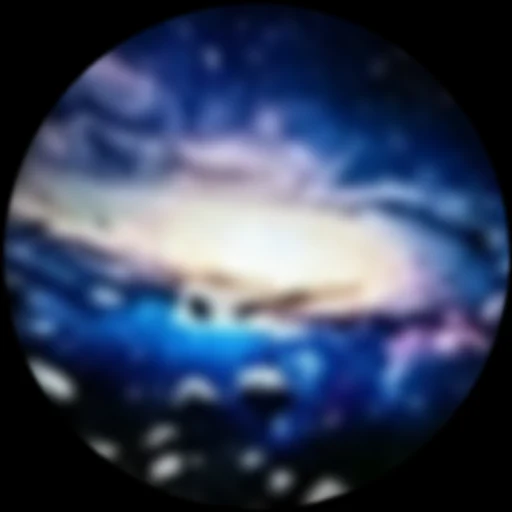
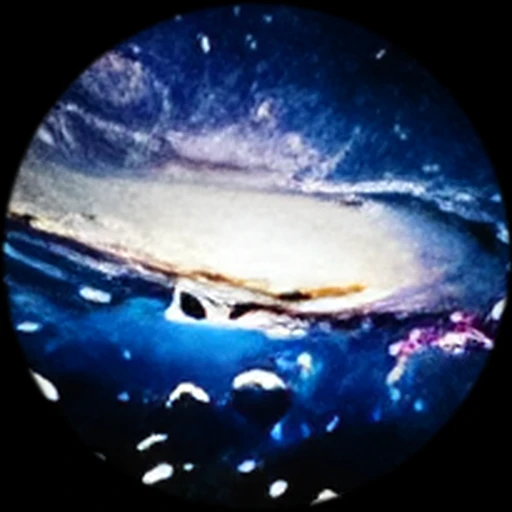
Galaxy USB diskleri Real-ESRGAN ile 4x büyütüldü
- Kaynak görseller küçüktü (renkli diskler ~50 px); yumuşatmak yetmedi
- araclar/gorsel/sr.py: yerel, ücretsiz Real-ESRGAN x4plus büyütme
- 12 disk yeniden kırpıldı; kural TASARIM-BILGISI, SKILL ve DEVAM'a yazıldı

Claude-Session: https://claude.ai/code/session_01UJKqxwDsqVK8ZKXFU1WVWQ

diff --git a/ayluna-imza/canvas/GalaxyUSB-Renk-gumus.dc.html b/ayluna-imza/canvas/GalaxyUSB-Renk-gumus.dc.html
@@ -369,7 +369,7 @@ body{margin:0;background:#F2F4F8}
 
     <div class="ozler">
       <div class="oz"><span class="gz" aria-hidden="true"><span class="port"></span><svg class="fis-a" viewBox="0 0 60 30" aria-hidden="true"><g class="fis"><rect class="uc" x="2" y="10" width="10" height="10" rx="1.5"></rect><rect class="gv" x="12" y="7" width="16" height="16" rx="4"></rect><path class="kb" d="M28 15h32"></path></g></svg></span><b>USB tak, çalıştır</b><span class="t">Laptop, powerbank ya da şarj başlığı.</span></div>
-      <div class="oz"><span class="gz"><span class="dn" aria-hidden="true"><img src="/_blob/298ae74db19f9db800b9e9036f8da560" alt=""><img src="/_blob/e3900cbd48390901b17932d8912b6b44" alt=""><img src="/_blob/9665b9b2418d5356d09a0e49b65225a7" alt=""></span></span><b>12 film diski</b><span class="t">Diski değiştir, tavan değişsin.</span></div>
+      <div class="oz"><span class="gz"><span class="dn" aria-hidden="true"><img src="/_blob/b9f5d788517b91ee796e4170791b31ee" alt=""><img src="/_blob/dac06d8e40f97dcc07c044913dd850a1" alt=""><img src="/_blob/e0c62326edb330a8e656d1783d3a17cb" alt=""></span></span><b>12 film diski</b><span class="t">Diski değiştir, tavan değişsin.</span></div>
       <div class="oz"><span class="gz" aria-hidden="true"><span class="karo salla"><img src="/_blob/5782766948fef68b7273c061529d6324" alt=""></span></span><b>Esnek boyun</b><span class="t">Tavana, duvara, köşeye çevir.</span></div>
       <div class="oz"><span class="gz" aria-hidden="true"><span class="karo"><span class="hale"></span><img src="/_blob/5782766948fef68b7273c061529d6324" alt=""></span></span><b>Gece lambası da</b><span class="t">Gövdesi yumuşak ışıkla yanar.</span></div>
       <div class="oz genis"><span class="gz" aria-hidden="true"><span class="cetvel"><i></i></span></span><span><b>Az yer kaplar</b><span class="t">Başlık 4 cm, toplam boy 23,5 cm.</span></span></div>
@@ -381,7 +381,7 @@ body{margin:0;background:#F2F4F8}
     </sc-for></div>
     <!-- Dönen satır (kullanıcı, 18 Eki: LunaDream'deki baskı USB'de de): önce disk, sonra aynı gün kargo + 16.00 sayacı (4 sn / 6 sn).
          16.00'dan sonra ve hafta sonu sayaç yok: "Bugün verilen siparişler yarın / Pazartesi kargoda". -->
-    <p class="donen"><span class="dn-sr">Her kutuda 12 film diski. {{kgMetin}}.</span><span class="{{dnA}}" aria-hidden="true"><span class="dn" aria-hidden="true"><img src="/_blob/298ae74db19f9db800b9e9036f8da560" alt=""><img src="/_blob/e3900cbd48390901b17932d8912b6b44" alt=""><img src="/_blob/9665b9b2418d5356d09a0e49b65225a7" alt=""></span><span>Her kutuda 12 film diski</span></span><span class="{{dnB}}" aria-hidden="true"><span class="dn-ik"><svg viewBox="0 0 24 24" aria-hidden="true"><circle cx="12" cy="12" r="8.5"></circle><path d="M12 7.5V12l3 2"></path></svg></span><span class="dn-m">{{kgMetin}}</span><sc-if value="{{kgBugun}}" hint-placeholder-val="{{true}}"><b class="dn-sy">{{kgSayac}}</b></sc-if></span></p>
+    <p class="donen"><span class="dn-sr">Her kutuda 12 film diski. {{kgMetin}}.</span><span class="{{dnA}}" aria-hidden="true"><span class="dn" aria-hidden="true"><img src="/_blob/b9f5d788517b91ee796e4170791b31ee" alt=""><img src="/_blob/dac06d8e40f97dcc07c044913dd850a1" alt=""><img src="/_blob/e0c62326edb330a8e656d1783d3a17cb" alt=""></span><span>Her kutuda 12 film diski</span></span><span class="{{dnB}}" aria-hidden="true"><span class="dn-ik"><svg viewBox="0 0 24 24" aria-hidden="true"><circle cx="12" cy="12" r="8.5"></circle><path d="M12 7.5V12l3 2"></path></svg></span><span class="dn-m">{{kgMetin}}</span><sc-if value="{{kgBugun}}" hint-placeholder-val="{{true}}"><b class="dn-sy">{{kgSayac}}</b></sc-if></span></p>
     <!-- Stok kurdelesi: butonun üst kenarında. Stok ELLE girilir (kullanıcı, 18 Eki: "stoklar elle girilecek"): Shopify'da bölüm ayarı
          sayı + aç/kapa; Shopify stoğuna bağlı değil, boşsa kurdele yok. "Dün" fiyatın altında. -->
     <div class="al-on"><span class="{{stokCls}}"><svg viewBox="0 0 24 24" aria-hidden="true"><circle cx="12" cy="12" r="9"></circle><path transform="matrix(-1 0 0 1 24 0)" d="M12 3A9 9 0 0 1 12 21A6.30 9 0 0 0 12 3Z"></path></svg>Son 23 adet</span><button class="btn1" type="button"><span class="b-ic"><span>{{onLabel}}</span><small>Kartla %5 indirim dahil</small></span><svg viewBox="0 0 24 24" aria-hidden="true"><path d="M5 12h13M13 6l6 6-6 6"></path></svg></button></div>
@@ -441,7 +441,7 @@ class Component extends DCLogic {
     // Kaydırma: hangi fotoğraf ortadaysa o; elle kaydırılınca kendiliğinden geçiş durur
     function gKay(e) { var el = e && (e.currentTarget || e.target); if (!el || !el.clientWidth) return; var i = Math.round(el.scrollLeft / el.clientWidth), o = {};
       if (i !== self.state.g) o.g = i; if (self.state.gOto && Date.now() - (self.otoKay || 0) > 900) o.gOto = false; if (o.g !== undefined || o.gOto === false) self.setState(o); }
-    var DISK = [['Kızıl sarmal', '298ae74db19f9db800b9e9036f8da560'], ['Mavi nebula', 'b9827fcce5c63d62332bae79435b337a'], ['Ay yüzeyi', '877983233d8c1e6644d73c1923e72595'], ['Yıldız yağmuru', 'af1815158d14c5b764fad7776e10284c'], ['Mavi galaksi', '9665b9b2418d5356d09a0e49b65225a7'], ['Yıldız kuşağı', '093b2415a406f8c3029e9fc3ab073eaf'], ['Dolunay', 'e3900cbd48390901b17932d8912b6b44'], ['Satürn', '62e0ed0370f3e64bee9916a776621abf'], ['Uzay balinası', 'ac1f2ab95a1b0b8a819f04095305f179'], ['Samanyolu', '14c1fb57790b4d352192307e2266071e'], ['Bulut sarmalı', '3b7f66c3091c4a32ba836ca875d7f4f3'], ['Uzak galaksi', 'f5f8b6e9da726943b0ca3bea161462e8']];
+    var DISK = [['Kızıl sarmal', 'b9f5d788517b91ee796e4170791b31ee'], ['Mavi nebula', '4ceeb81725946c822da32225b36f8707'], ['Ay yüzeyi', 'a1c504f99589f63119d510c6f2c60919'], ['Yıldız yağmuru', 'd83c22969ff22eeda6a4ca43aa9e9792'], ['Mavi galaksi', 'e0c62326edb330a8e656d1783d3a17cb'], ['Yıldız kuşağı', '913d542458ee66ea5831071ef906a926'], ['Dolunay', 'dac06d8e40f97dcc07c044913dd850a1'], ['Satürn', 'f62fdb9c7a12f760a4bcb9d306fbafbe'], ['Uzay balinası', 'b94b60d6baf860e25b45a407b46a674a'], ['Samanyolu', 'c814e4a17e35eae6284f97d3645659a6'], ['Bulut sarmalı', '940ee9133dda38926366d750a651ee3a'], ['Uzak galaksi', '97e1e85efbecaad855efdf10a1f78716']];
     var disk = DISK.map(function (d, i) { var on = i === S.disk; return { n: d[0], src: B + d[1], on: on ? 'true' : 'false', cls: on ? 'on' : '', bcls: on ? 'on' : '', pick: function () { self.setState({ disk: i, dOto: false }); } }; });
     var DS = {}; DISK.forEach(function (d) { DS[d[0]] = B + d[1]; });
     var KIM = [['Çocuk odası', 'cocuk', 'Masaldan sonra galaksi.', 'Uyumadan önce tavana birlikte bakın.', 'Uzay balinası', '32% 40%'], ['Kendine zaman', 'saturn', 'Ekran yok, sadece gökyüzü.', 'Gün sonunda telefonu bırak, tavana bak.', 'Satürn', '52% 40%'], ['Dolunay gecesi', 'ay', 'Ay odanda doğsun.', 'Işığı kapat, dolunay tavanda.', 'Dolunay', '50% 40%']];

diff --git a/ayluna-imza/canvas/GalaxyUSB-Renk-kuzey.dc.html b/ayluna-imza/canvas/GalaxyUSB-Renk-kuzey.dc.html
@@ -369,7 +369,7 @@ body{margin:0;background:#F2F4F8}
 
     <div class="ozler">
       <div class="oz"><span class="gz" aria-hidden="true"><span class="port"></span><svg class="fis-a" viewBox="0 0 60 30" aria-hidden="true"><g class="fis"><rect class="uc" x="2" y="10" width="10" height="10" rx="1.5"></rect><rect class="gv" x="12" y="7" width="16" height="16" rx="4"></rect><path class="kb" d="M28 15h32"></path></g></svg></span><b>USB tak, çalıştır</b><span class="t">Laptop, powerbank ya da şarj başlığı.</span></div>
-      <div class="oz"><span class="gz"><span class="dn" aria-hidden="true"><img src="/_blob/298ae74db19f9db800b9e9036f8da560" alt=""><img src="/_blob/e3900cbd48390901b17932d8912b6b44" alt=""><img src="/_blob/9665b9b2418d5356d09a0e49b65225a7" alt=""></span></span><b>12 film diski</b><span class="t">Diski değiştir, tavan değişsin.</span></div>
+      <div class="oz"><span class="gz"><span class="dn" aria-hidden="true"><img src="/_blob/b9f5d788517b91ee796e4170791b31ee" alt=""><img src="/_blob/dac06d8e40f97dcc07c044913dd850a1" alt=""><img src="/_blob/e0c62326edb330a8e656d1783d3a17cb" alt=""></span></span><b>12 film diski</b><span class="t">Diski değiştir, tavan değişsin.</span></div>
       <div class="oz"><span class="gz" aria-hidden="true"><span class="karo salla"><img src="/_blob/5782766948fef68b7273c061529d6324" alt=""></span></span><b>Esnek boyun</b><span class="t">Tavana, duvara, köşeye çevir.</span></div>
       <div class="oz"><span class="gz" aria-hidden="true"><span class="karo"><span class="hale"></span><img src="/_blob/5782766948fef68b7273c061529d6324" alt=""></span></span><b>Gece lambası da</b><span class="t">Gövdesi yumuşak ışıkla yanar.</span></div>
       <div class="oz genis"><span class="gz" aria-hidden="true"><span class="cetvel"><i></i></span></span><span><b>Az yer kaplar</b><span class="t">Başlık 4 cm, toplam boy 23,5 cm.</span></span></div>
@@ -381,7 +381,7 @@ body{margin:0;background:#F2F4F8}
     </sc-for></div>
     <!-- Dönen satır (kullanıcı, 18 Eki: LunaDream'deki baskı USB'de de): önce disk, sonra aynı gün kargo + 16.00 sayacı (4 sn / 6 sn).
          16.00'dan sonra ve hafta sonu sayaç yok: "Bugün verilen siparişler yarın / Pazartesi kargoda". -->
-    <p class="donen"><span class="dn-sr">Her kutuda 12 film diski. {{kgMetin}}.</span><span class="{{dnA}}" aria-hidden="true"><span class="dn" aria-hidden="true"><img src="/_blob/298ae74db19f9db800b9e9036f8da560" alt=""><img src="/_blob/e3900cbd48390901b17932d8912b6b44" alt=""><img src="/_blob/9665b9b2418d5356d09a0e49b65225a7" alt=""></span><span>Her kutuda 12 film diski</span></span><span class="{{dnB}}" aria-hidden="true"><span class="dn-ik"><svg viewBox="0 0 24 24" aria-hidden="true"><circle cx="12" cy="12" r="8.5"></circle><path d="M12 7.5V12l3 2"></path></svg></span><span class="dn-m">{{kgMetin}}</span><sc-if value="{{kgBugun}}" hint-placeholder-val="{{true}}"><b class="dn-sy">{{kgSayac}}</b></sc-if></span></p>
+    <p class="donen"><span class="dn-sr">Her kutuda 12 film diski. {{kgMetin}}.</span><span class="{{dnA}}" aria-hidden="true"><span class="dn" aria-hidden="true"><img src="/_blob/b9f5d788517b91ee796e4170791b31ee" alt=""><img src="/_blob/dac06d8e40f97dcc07c044913dd850a1" alt=""><img src="/_blob/e0c62326edb330a8e656d1783d3a17cb" alt=""></span><span>Her kutuda 12 film diski</span></span><span class="{{dnB}}" aria-hidden="true"><span class="dn-ik"><svg viewBox="0 0 24 24" aria-hidden="true"><circle cx="12" cy="12" r="8.5"></circle><path d="M12 7.5V12l3 2"></path></svg></span><span class="dn-m">{{kgMetin}}</span><sc-if value="{{kgBugun}}" hint-placeholder-val="{{true}}"><b class="dn-sy">{{kgSayac}}</b></sc-if></span></p>
     <!-- Stok kurdelesi: butonun üst kenarında. Stok ELLE girilir (kullanıcı, 18 Eki: "stoklar elle girilecek"): Shopify'da bölüm ayarı
          sayı + aç/kapa; Shopify stoğuna bağlı değil, boşsa kurdele yok. "Dün" fiyatın altında. -->
     <div class="al-on"><span class="{{stokCls}}"><svg viewBox="0 0 24 24" aria-hidden="true"><circle cx="12" cy="12" r="9"></circle><path transform="matrix(-1 0 0 1 24 0)" d="M12 3A9 9 0 0 1 12 21A6.30 9 0 0 0 12 3Z"></path></svg>Son 23 adet</span><button class="btn1" type="button"><span class="b-ic"><span>{{onLabel}}</span><small>Kartla %5 indirim dahil</small></span><svg viewBox="0 0 24 24" aria-hidden="true"><path d="M5 12h13M13 6l6 6-6 6"></path></svg></button></div>
@@ -441,7 +441,7 @@ class Component extends DCLogic {
     // Kaydırma: hangi fotoğraf ortadaysa o; elle kaydırılınca kendiliğinden geçiş durur
     function gKay(e) { var el = e && (e.currentTarget || e.target); if (!el || !el.clientWidth) return; var i = Math.round(el.scrollLeft / el.clientWidth), o = {};
       if (i !== self.state.g) o.g = i; if (self.state.gOto && Date.now() - (self.otoKay || 0) > 900) o.gOto = false; if (o.g !== undefined || o.gOto === false) self.setState(o); }
-    var DISK = [['Kızıl sarmal', '298ae74db19f9db800b9e9036f8da560'], ['Mavi nebula', 'b9827fcce5c63d62332bae79435b337a'], ['Ay yüzeyi', '877983233d8c1e6644d73c1923e72595'], ['Yıldız yağmuru', 'af1815158d14c5b764fad7776e10284c'], ['Mavi galaksi', '9665b9b2418d5356d09a0e49b65225a7'], ['Yıldız kuşağı', '093b2415a406f8c3029e9fc3ab073eaf'], ['Dolunay', 'e3900cbd48390901b17932d8912b6b44'], ['Satürn', '62e0ed0370f3e64bee9916a776621abf'], ['Uzay balinası', 'ac1f2ab95a1b0b8a819f04095305f179'], ['Samanyolu', '14c1fb57790b4d352192307e2266071e'], ['Bulut sarmalı', '3b7f66c3091c4a32ba836ca875d7f4f3'], ['Uzak galaksi', 'f5f8b6e9da726943b0ca3bea161462e8']];
+    var DISK = [['Kızıl sarmal', 'b9f5d788517b91ee796e4170791b31ee'], ['Mavi nebula', '4ceeb81725946c822da32225b36f8707'], ['Ay yüzeyi', 'a1c504f99589f63119d510c6f2c60919'], ['Yıldız yağmuru', 'd83c22969ff22eeda6a4ca43aa9e9792'], ['Mavi galaksi', 'e0c62326edb330a8e656d1783d3a17cb'], ['Yıldız kuşağı', '913d542458ee66ea5831071ef906a926'], ['Dolunay', 'dac06d8e40f97dcc07c044913dd850a1'], ['Satürn', 'f62fdb9c7a12f760a4bcb9d306fbafbe'], ['Uzay balinası', 'b94b60d6baf860e25b45a407b46a674a'], ['Samanyolu', 'c814e4a17e35eae6284f97d3645659a6'], ['Bulut sarmalı', '940ee9133dda38926366d750a651ee3a'], ['Uzak galaksi', '97e1e85efbecaad855efdf10a1f78716']];
     var disk = DISK.map(function (d, i) { var on = i === S.disk; return { n: d[0], src: B + d[1], on: on ? 'true' : 'false', cls: on ? 'on' : '', bcls: on ? 'on' : '', pick: function () { self.setState({ disk: i, dOto: false }); } }; });
     var DS = {}; DISK.forEach(function (d) { DS[d[0]] = B + d[1]; });
     var KIM = [['Çocuk odası', 'cocuk', 'Masaldan sonra galaksi.', 'Uyumadan önce tavana birlikte bakın.', 'Uzay balinası', '32% 40%'], ['Kendine zaman', 'saturn', 'Ekran yok, sadece gökyüzü.', 'Gün sonunda telefonu bırak, tavana bak.', 'Satürn', '52% 40%'], ['Dolunay gecesi', 'ay', 'Ay odanda doğsun.', 'Işığı kapat, dolunay tavanda.', 'Dolunay', '50% 40%']];

diff --git a/ayluna-imza/canvas/GalaxyUSB-Renk-mercan.dc.html b/ayluna-imza/canvas/GalaxyUSB-Renk-mercan.dc.html
@@ -369,7 +369,7 @@ body{margin:0;background:#F2F4F8}
 
     <div class="ozler">
       <div class="oz"><span class="gz" aria-hidden="true"><span class="port"></span><svg class="fis-a" viewBox="0 0 60 30" aria-hidden="true"><g class="fis"><rect class="uc" x="2" y="10" width="10" height="10" rx="1.5"></rect><rect class="gv" x="12" y="7" width="16" height="16" rx="4"></rect><path class="kb" d="M28 15h32"></path></g></svg></span><b>USB tak, çalıştır</b><span class="t">Laptop, powerbank ya da şarj başlığı.</span></div>
-      <div class="oz"><span class="gz"><span class="dn" aria-hidden="true"><img src="/_blob/298ae74db19f9db800b9e9036f8da560" alt=""><img src="/_blob/e3900cbd48390901b17932d8912b6b44" alt=""><img src="/_blob/9665b9b2418d5356d09a0e49b65225a7" alt=""></span></span><b>12 film diski</b><span class="t">Diski değiştir, tavan değişsin.</span></div>
+      <div class="oz"><span class="gz"><span class="dn" aria-hidden="true"><img src="/_blob/b9f5d788517b91ee796e4170791b31ee" alt=""><img src="/_blob/dac06d8e40f97dcc07c044913dd850a1" alt=""><img src="/_blob/e0c62326edb330a8e656d1783d3a17cb" alt=""></span></span><b>12 film diski</b><span class="t">Diski değiştir, tavan değişsin.</span></div>
       <div class="oz"><span class="gz" aria-hidden="true"><span class="karo salla"><img src="/_blob/5782766948fef68b7273c061529d6324" alt=""></span></span><b>Esnek boyun</b><span class="t">Tavana, duvara, köşeye çevir.</span></div>
       <div class="oz"><span class="gz" aria-hidden="true"><span class="karo"><span class="hale"></span><img src="/_blob/5782766948fef68b7273c061529d6324" alt=""></span></span><b>Gece lambası da</b><span class="t">Gövdesi yumuşak ışıkla yanar.</span></div>
       <div class="oz genis"><span class="gz" aria-hidden="true"><span class="cetvel"><i></i></span></span><span><b>Az yer kaplar</b><span class="t">Başlık 4 cm, toplam boy 23,5 cm.</span></span></div>
@@ -381,7 +381,7 @@ body{margin:0;background:#F2F4F8}
     </sc-for></div>
     <!-- Dönen satır (kullanıcı, 18 Eki: LunaDream'deki baskı USB'de de): önce disk, sonra aynı gün kargo + 16.00 sayacı (4 sn / 6 sn).
          16.00'dan sonra ve hafta sonu sayaç yok: "Bugün verilen siparişler yarın / Pazartesi kargoda". -->
-    <p class="donen"><span class="dn-sr">Her kutuda 12 film diski. {{kgMetin}}.</span><span class="{{dnA}}" aria-hidden="true"><span class="dn" aria-hidden="true"><img src="/_blob/298ae74db19f9db800b9e9036f8da560" alt=""><img src="/_blob/e3900cbd48390901b17932d8912b6b44" alt=""><img src="/_blob/9665b9b2418d5356d09a0e49b65225a7" alt=""></span><span>Her kutuda 12 film diski</span></span><span class="{{dnB}}" aria-hidden="true"><span class="dn-ik"><svg viewBox="0 0 24 24" aria-hidden="true"><circle cx="12" cy="12" r="8.5"></circle><path d="M12 7.5V12l3 2"></path></svg></span><span class="dn-m">{{kgMetin}}</span><sc-if value="{{kgBugun}}" hint-placeholder-val="{{true}}"><b class="dn-sy">{{kgSayac}}</b></sc-if></span></p>
+    <p class="donen"><span class="dn-sr">Her kutuda 12 film diski. {{kgMetin}}.</span><span class="{{dnA}}" aria-hidden="true"><span class="dn" aria-hidden="true"><img src="/_blob/b9f5d788517b91ee796e4170791b31ee" alt=""><img src="/_blob/dac06d8e40f97dcc07c044913dd850a1" alt=""><img src="/_blob/e0c62326edb330a8e656d1783d3a17cb" alt=""></span><span>Her kutuda 12 film diski</span></span><span class="{{dnB}}" aria-hidden="true"><span class="dn-ik"><svg viewBox="0 0 24 24" aria-hidden="true"><circle cx="12" cy="12" r="8.5"></circle><path d="M12 7.5V12l3 2"></path></svg></span><span class="dn-m">{{kgMetin}}</span><sc-if value="{{kgBugun}}" hint-placeholder-val="{{true}}"><b class="dn-sy">{{kgSayac}}</b></sc-if></span></p>
     <!-- Stok kurdelesi: butonun üst kenarında. Stok ELLE girilir (kullanıcı, 18 Eki: "stoklar elle girilecek"): Shopify'da bölüm ayarı
          sayı + aç/kapa; Shopify stoğuna bağlı değil, boşsa kurdele yok. "Dün" fiyatın altında. -->
     <div class="al-on"><span class="{{stokCls}}"><svg viewBox="0 0 24 24" aria-hidden="true"><circle cx="12" cy="12" r="9"></circle><path transform="matrix(-1 0 0 1 24 0)" d="M12 3A9 9 0 0 1 12 21A6.30 9 0 0 0 12 3Z"></path></svg>Son 23 adet</span><button class="btn1" type="button"><span class="b-ic"><span>{{onLabel}}</span><small>Kartla %5 indirim dahil</small></span><svg viewBox="0 0 24 24" aria-hidden="true"><path d="M5 12h13M13 6l6 6-6 6"></path></svg></button></div>
@@ -441,7 +441,7 @@ class Component extends DCLogic {
     // Kaydırma: hangi fotoğraf ortadaysa o; elle kaydırılınca kendiliğinden geçiş durur
     function gKay(e) { var el = e && (e.currentTarget || e.target); if (!el || !el.clientWidth) return; var i = Math.round(el.scrollLeft / el.clientWidth), o = {};
       if (i !== self.state.g) o.g = i; if (self.state.gOto && Date.now() - (self.otoKay || 0) > 900) o.gOto = false; if (o.g !== undefined || o.gOto === false) self.setState(o); }
-    var DISK = [['Kızıl sarmal', '298ae74db19f9db800b9e9036f8da560'], ['Mavi nebula', 'b9827fcce5c63d62332bae79435b337a'], ['Ay yüzeyi', '877983233d8c1e6644d73c1923e72595'], ['Yıldız yağmuru', 'af1815158d14c5b764fad7776e10284c'], ['Mavi galaksi', '9665b9b2418d5356d09a0e49b65225a7'], ['Yıldız kuşağı', '093b2415a406f8c3029e9fc3ab073eaf'], ['Dolunay', 'e3900cbd48390901b17932d8912b6b44'], ['Satürn', '62e0ed0370f3e64bee9916a776621abf'], ['Uzay balinası', 'ac1f2ab95a1b0b8a819f04095305f179'], ['Samanyolu', '14c1fb57790b4d352192307e2266071e'], ['Bulut sarmalı', '3b7f66c3091c4a32ba836ca875d7f4f3'], ['Uzak galaksi', 'f5f8b6e9da726943b0ca3bea161462e8']];
+    var DISK = [['Kızıl sarmal', 'b9f5d788517b91ee796e4170791b31ee'], ['Mavi nebula', '4ceeb81725946c822da32225b36f8707'], ['Ay yüzeyi', 'a1c504f99589f63119d510c6f2c60919'], ['Yıldız yağmuru', 'd83c22969ff22eeda6a4ca43aa9e9792'], ['Mavi galaksi', 'e0c62326edb330a8e656d1783d3a17cb'], ['Yıldız kuşağı', '913d542458ee66ea5831071ef906a926'], ['Dolunay', 'dac06d8e40f97dcc07c044913dd850a1'], ['Satürn', 'f62fdb9c7a12f760a4bcb9d306fbafbe'], ['Uzay balinası', 'b94b60d6baf860e25b45a407b46a674a'], ['Samanyolu', 'c814e4a17e35eae6284f97d3645659a6'], ['Bulut sarmalı', '940ee9133dda38926366d750a651ee3a'], ['Uzak galaksi', '97e1e85efbecaad855efdf10a1f78716']];
     var disk = DISK.map(function (d, i) { var on = i === S.disk; return { n: d[0], src: B + d[1], on: on ? 'true' : 'false', cls: on ? 'on' : '', bcls: on ? 'on' : '', pick: function () { self.setState({ disk: i, dOto: false }); } }; });
     var DS = {}; DISK.forEach(function (d) { DS[d[0]] = B + d[1]; });
     var KIM = [['Çocuk odası', 'cocuk', 'Masaldan sonra galaksi.', 'Uyumadan önce tavana birlikte bakın.', 'Uzay balinası', '32% 40%'], ['Kendine zaman', 'saturn', 'Ekran yok, sadece gökyüzü.', 'Gün sonunda telefonu bırak, tavana bak.', 'Satürn', '52% 40%'], ['Dolunay gecesi', 'ay', 'Ay odanda doğsun.', 'Işığı kapat, dolunay tavanda.', 'Dolunay', '50% 40%']];

diff --git a/ayluna-imza/canvas/GalaxyUSB-Renk-pembe.dc.html b/ayluna-imza/canvas/GalaxyUSB-Renk-pembe.dc.html
@@ -369,7 +369,7 @@ body{margin:0;background:#F2F4F8}
 
     <div class="ozler">
       <div class="oz"><span class="gz" aria-hidden="true"><span class="port"></span><svg class="fis-a" viewBox="0 0 60 30" aria-hidden="true"><g class="fis"><rect class="uc" x="2" y="10" width="10" height="10" rx="1.5"></rect><rect class="gv" x="12" y="7" width="16" height="16" rx="4"></rect><path class="kb" d="M28 15h32"></path></g></svg></span><b>USB tak, çalıştır</b><span class="t">Laptop, powerbank ya da şarj başlığı.</span></div>
-      <div class="oz"><span class="gz"><span class="dn" aria-hidden="true"><img src="/_blob/298ae74db19f9db800b9e9036f8da560" alt=""><img src="/_blob/e3900cbd48390901b17932d8912b6b44" alt=""><img src="/_blob/9665b9b2418d5356d09a0e49b65225a7" alt=""></span></span><b>12 film diski</b><span class="t">Diski değiştir, tavan değişsin.</span></div>
+      <div class="oz"><span class="gz"><span class="dn" aria-hidden="true"><img src="/_blob/b9f5d788517b91ee796e4170791b31ee" alt=""><img src="/_blob/dac06d8e40f97dcc07c044913dd850a1" alt=""><img src="/_blob/e0c62326edb330a8e656d1783d3a17cb" alt=""></span></span><b>12 film diski</b><span class="t">Diski değiştir, tavan değişsin.</span></div>
       <div class="oz"><span class="gz" aria-hidden="true"><span class="karo salla"><img src="/_blob/5782766948fef68b7273c061529d6324" alt=""></span></span><b>Esnek boyun</b><span class="t">Tavana, duvara, köşeye çevir.</span></div>
       <div class="oz"><span class="gz" aria-hidden="true"><span class="karo"><span class="hale"></span><img src="/_blob/5782766948fef68b7273c061529d6324" alt=""></span></span><b>Gece lambası da</b><span class="t">Gövdesi yumuşak ışıkla yanar.</span></div>
       <div class="oz genis"><span class="gz" aria-hidden="true"><span class="cetvel"><i></i></span></span><span><b>Az yer kaplar</b><span class="t">Başlık 4 cm, toplam boy 23,5 cm.</span></span></div>
@@ -381,7 +381,7 @@ body{margin:0;background:#F2F4F8}
     </sc-for></div>
     <!-- Dönen satır (kullanıcı, 18 Eki: LunaDream'deki baskı USB'de de): önce disk, sonra aynı gün kargo + 16.00 sayacı (4 sn / 6 sn).
          16.00'dan sonra ve hafta sonu sayaç yok: "Bugün verilen siparişler yarın / Pazartesi kargoda". -->
-    <p class="donen"><span class="dn-sr">Her kutuda 12 film diski. {{kgMetin}}.</span><span class="{{dnA}}" aria-hidden="true"><span class="dn" aria-hidden="true"><img src="/_blob/298ae74db19f9db800b9e9036f8da560" alt=""><img src="/_blob/e3900cbd48390901b17932d8912b6b44" alt=""><img src="/_blob/9665b9b2418d5356d09a0e49b65225a7" alt=""></span><span>Her kutuda 12 film diski</span></span><span class="{{dnB}}" aria-hidden="true"><span class="dn-ik"><svg viewBox="0 0 24 24" aria-hidden="true"><circle cx="12" cy="12" r="8.5"></circle><path d="M12 7.5V12l3 2"></path></svg></span><span class="dn-m">{{kgMetin}}</span><sc-if value="{{kgBugun}}" hint-placeholder-val="{{true}}"><b class="dn-sy">{{kgSayac}}</b></sc-if></span></p>
+    <p class="donen"><span class="dn-sr">Her kutuda 12 film diski. {{kgMetin}}.</span><span class="{{dnA}}" aria-hidden="true"><span class="dn" aria-hidden="true"><img src="/_blob/b9f5d788517b91ee796e4170791b31ee" alt=""><img src="/_blob/dac06d8e40f97dcc07c044913dd850a1" alt=""><img src="/_blob/e0c62326edb330a8e656d1783d3a17cb" alt=""></span><span>Her kutuda 12 film diski</span></span><span class="{{dnB}}" aria-hidden="true"><span class="dn-ik"><svg viewBox="0 0 24 24" aria-hidden="true"><circle cx="12" cy="12" r="8.5"></circle><path d="M12 7.5V12l3 2"></path></svg></span><span class="dn-m">{{kgMetin}}</span><sc-if value="{{kgBugun}}" hint-placeholder-val="{{true}}"><b class="dn-sy">{{kgSayac}}</b></sc-if></span></p>
     <!-- Stok kurdelesi: butonun üst kenarında. Stok ELLE girilir (kullanıcı, 18 Eki: "stoklar elle girilecek"): Shopify'da bölüm ayarı
          sayı + aç/kapa; Shopify stoğuna bağlı değil, boşsa kurdele yok. "Dün" fiyatın altında. -->
     <div class="al-on"><span class="{{stokCls}}"><svg viewBox="0 0 24 24" aria-hidden="true"><circle cx="12" cy="12" r="9"></circle><path transform="matrix(-1 0 0 1 24 0)" d="M12 3A9 9 0 0 1 12 21A6.30 9 0 0 0 12 3Z"></path></svg>Son 23 adet</span><button class="btn1" type="button"><span class="b-ic"><span>{{onLabel}}</span><small>Kartla %5 indirim dahil</small></span><svg viewBox="0 0 24 24" aria-hidden="true"><path d="M5 12h13M13 6l6 6-6 6"></path></svg></button></div>
@@ -441,7 +441,7 @@ class Component extends DCLogic {
     // Kaydırma: hangi fotoğraf ortadaysa o; elle kaydırılınca kendiliğinden geçiş durur
     function gKay(e) { var el = e && (e.currentTarget || e.target); if (!el || !el.clientWidth) return; var i = Math.round(el.scrollLeft / el.clientWidth), o = {};
       if (i !== self.state.g) o.g = i; if (self.state.gOto && Date.now() - (self.otoKay || 0) > 900) o.gOto = false; if (o.g !== undefined || o.gOto === false) self.setState(o); }
-    var DISK = [['Kızıl sarmal', '298ae74db19f9db800b9e9036f8da560'], ['Mavi nebula', 'b9827fcce5c63d62332bae79435b337a'], ['Ay yüzeyi', '877983233d8c1e6644d73c1923e72595'], ['Yıldız yağmuru', 'af1815158d14c5b764fad7776e10284c'], ['Mavi galaksi', '9665b9b2418d5356d09a0e49b65225a7'], ['Yıldız kuşağı', '093b2415a406f8c3029e9fc3ab073eaf'], ['Dolunay', 'e3900cbd48390901b17932d8912b6b44'], ['Satürn', '62e0ed0370f3e64bee9916a776621abf'], ['Uzay balinası', 'ac1f2ab95a1b0b8a819f04095305f179'], ['Samanyolu', '14c1fb57790b4d352192307e2266071e'], ['Bulut sarmalı', '3b7f66c3091c4a32ba836ca875d7f4f3'], ['Uzak galaksi', 'f5f8b6e9da726943b0ca3bea161462e8']];
+    var DISK = [['Kızıl sarmal', 'b9f5d788517b91ee796e4170791b31ee'], ['Mavi nebula', '4ceeb81725946c822da32225b36f8707'], ['Ay yüzeyi', 'a1c504f99589f63119d510c6f2c60919'], ['Yıldız yağmuru', 'd83c22969ff22eeda6a4ca43aa9e9792'], ['Mavi galaksi', 'e0c62326edb330a8e656d1783d3a17cb'], ['Yıldız kuşağı', '913d542458ee66ea5831071ef906a926'], ['Dolunay', 'dac06d8e40f97dcc07c044913dd850a1'], ['Satürn', 'f62fdb9c7a12f760a4bcb9d306fbafbe'], ['Uzay balinası', 'b94b60d6baf860e25b45a407b46a674a'], ['Samanyolu', 'c814e4a17e35eae6284f97d3645659a6'], ['Bulut sarmalı', '940ee9133dda38926366d750a651ee3a'], ['Uzak galaksi', '97e1e85efbecaad855efdf10a1f78716']];
     var disk = DISK.map(function (d, i) { var on = i === S.disk; return { n: d[0], src: B + d[1], on: on ? 'true' : 'false', cls: on ? 'on' : '', bcls: on ? 'on' : '', pick: function () { self.setState({ disk: i, dOto: false }); } }; });
     var DS = {}; DISK.forEach(function (d) { DS[d[0]] = B + d[1]; });
     var KIM = [['Çocuk odası', 'cocuk', 'Masaldan sonra galaksi.', 'Uyumadan önce tavana birlikte bakın.', 'Uzay balinası', '32% 40%'], ['Kendine zaman', 'saturn', 'Ekran yok, sadece gökyüzü.', 'Gün sonunda telefonu bırak, tavana bak.', 'Satürn', '52% 40%'], ['Dolunay gecesi', 'ay', 'Ay odanda doğsun.', 'Işığı kapat, dolunay tavanda.', 'Dolunay', '50% 40%']];

diff --git a/ayluna-imza/canvas/GalaxyUSB.dc.html b/ayluna-imza/canvas/GalaxyUSB.dc.html
@@ -370,7 +370,7 @@ body{margin:0;background:#F2F4F8}
 
     <div class="ozler">
       <div class="oz"><span class="gz" aria-hidden="true"><span class="port"></span><svg class="fis-a" viewBox="0 0 60 30" aria-hidden="true"><g class="fis"><rect class="uc" x="2" y="10" width="10" height="10" rx="1.5"></rect><rect class="gv" x="12" y="7" width="16" height="16" rx="4"></rect><path class="kb" d="M28 15h32"></path></g></svg></span><b>USB tak, çalıştır</b><span class="t">Laptop, powerbank ya da şarj başlığı.</span></div>
-      <div class="oz"><span class="gz"><span class="dn" aria-hidden="true"><img src="/_blob/298ae74db19f9db800b9e9036f8da560" alt=""><img src="/_blob/e3900cbd48390901b17932d8912b6b44" alt=""><img src="/_blob/9665b9b2418d5356d09a0e49b65225a7" alt=""></span></span><b>12 film diski</b><span class="t">Diski değiştir, tavan değişsin.</span></div>
+      <div class="oz"><span class="gz"><span class="dn" aria-hidden="true"><img src="/_blob/b9f5d788517b91ee796e4170791b31ee" alt=""><img src="/_blob/dac06d8e40f97dcc07c044913dd850a1" alt=""><img src="/_blob/e0c62326edb330a8e656d1783d3a17cb" alt=""></span></span><b>12 film diski</b><span class="t">Diski değiştir, tavan değişsin.</span></div>
       <div class="oz"><span class="gz" aria-hidden="true"><span class="karo salla"><img src="/_blob/5782766948fef68b7273c061529d6324" alt=""></span></span><b>Esnek boyun</b><span class="t">Tavana, duvara, köşeye çevir.</span></div>
       <div class="oz"><span class="gz" aria-hidden="true"><span class="karo"><span class="hale"></span><img src="/_blob/5782766948fef68b7273c061529d6324" alt=""></span></span><b>Gece lambası da</b><span class="t">Gövdesi yumuşak ışıkla yanar.</span></div>
       <div class="oz genis"><span class="gz" aria-hidden="true"><span class="cetvel"><i></i></span></span><span><b>Az yer kaplar</b><span class="t">Başlık 4 cm, toplam boy 23,5 cm.</span></span></div>
@@ -382,7 +382,7 @@ body{margin:0;background:#F2F4F8}
     </sc-for></div>
     <!-- Dönen satır (kullanıcı, 18 Eki: LunaDream'deki baskı USB'de de): önce disk, sonra aynı gün kargo + 16.00 sayacı (4 sn / 6 sn).
          16.00'dan sonra ve hafta sonu sayaç yok: "Bugün verilen siparişler yarın / Pazartesi kargoda". -->
-    <p class="donen"><span class="dn-sr">Her kutuda 12 film diski. {{kgMetin}}.</span><span class="{{dnA}}" aria-hidden="true"><span class="dn" aria-hidden="true"><img src="/_blob/298ae74db19f9db800b9e9036f8da560" alt=""><img src="/_blob/e3900cbd48390901b17932d8912b6b44" alt=""><img src="/_blob/9665b9b2418d5356d09a0e49b65225a7" alt=""></span><span>Her kutuda 12 film diski</span></span><span class="{{dnB}}" aria-hidden="true"><span class="dn-ik"><svg viewBox="0 0 24 24" aria-hidden="true"><circle cx="12" cy="12" r="8.5"></circle><path d="M12 7.5V12l3 2"></path></svg></span><span class="dn-m">{{kgMetin}}</span><sc-if value="{{kgBugun}}" hint-placeholder-val="{{true}}"><b class="dn-sy">{{kgSayac}}</b></sc-if></span></p>
+    <p class="donen"><span class="dn-sr">Her kutuda 12 film diski. {{kgMetin}}.</span><span class="{{dnA}}" aria-hidden="true"><span class="dn" aria-hidden="true"><img src="/_blob/b9f5d788517b91ee796e4170791b31ee" alt=""><img src="/_blob/dac06d8e40f97dcc07c044913dd850a1" alt=""><img src="/_blob/e0c62326edb330a8e656d1783d3a17cb" alt=""></span><span>Her kutuda 12 film diski</span></span><span class="{{dnB}}" aria-hidden="true"><span class="dn-ik"><svg viewBox="0 0 24 24" aria-hidden="true"><circle cx="12" cy="12" r="8.5"></circle><path d="M12 7.5V12l3 2"></path></svg></span><span class="dn-m">{{kgMetin}}</span><sc-if value="{{kgBugun}}" hint-placeholder-val="{{true}}"><b class="dn-sy">{{kgSayac}}</b></sc-if></span></p>
     <!-- Stok kurdelesi: butonun üst kenarında. Stok ELLE girilir (kullanıcı, 18 Eki: "stoklar elle girilecek"): Shopify'da bölüm ayarı
          sayı + aç/kapa; Shopify stoğuna bağlı değil, boşsa kurdele yok. "Dün" fiyatın altında. -->
     <div class="al-on"><span class="{{stokCls}}"><svg viewBox="0 0 24 24" aria-hidden="true"><circle cx="12" cy="12" r="9"></circle><path transform="matrix(-1 0 0 1 24 0)" d="M12 3A9 9 0 0 1 12 21A6.30 9 0 0 0 12 3Z"></path></svg>Son 23 adet</span><button class="btn1" type="button"><span class="b-ic"><span>{{onLabel}}</span><small>Kartla %5 indirim dahil</small></span><svg viewBox="0 0 24 24" aria-hidden="true"><path d="M5 12h13M13 6l6 6-6 6"></path></svg></button></div>
@@ -521,7 +521,7 @@ class Component extends DCLogic {
     // Kaydırma: hangi fotoğraf ortadaysa o; elle kaydırılınca kendiliğinden geçiş durur
     function gKay(e) { var el = e && (e.currentTarget || e.target); if (!el || !el.clientWidth) return; var i = Math.round(el.scrollLeft / el.clientWidth), o = {};
       if (i !== self.state.g) o.g = i; if (self.state.gOto && Date.now() - (self.otoKay || 0) > 900) o.gOto = false; if (o.g !== undefined || o.gOto === false) self.setState(o); }
-    var DISK = [['Kızıl sarmal', '298ae74db19f9db800b9e9036f8da560'], ['Mavi nebula', 'b9827fcce5c63d62332bae79435b337a'], ['Ay yüzeyi', '877983233d8c1e6644d73c1923e72595'], ['Yıldız yağmuru', 'af1815158d14c5b764fad7776e10284c'], ['Mavi galaksi', '9665b9b2418d5356d09a0e49b65225a7'], ['Yıldız kuşağı', '093b2415a406f8c3029e9fc3ab073eaf'], ['Dolunay', 'e3900cbd48390901b17932d8912b6b44'], ['Satürn', '62e0ed0370f3e64bee9916a776621abf'], ['Uzay balinası', 'ac1f2ab95a1b0b8a819f04095305f179'], ['Samanyolu', '14c1fb57790b4d352192307e2266071e'], ['Bulut sarmalı', '3b7f66c3091c4a32ba836ca875d7f4f3'], ['Uzak galaksi', 'f5f8b6e9da726943b0ca3bea161462e8']];
+    var DISK = [['Kızıl sarmal', 'b9f5d788517b91ee796e4170791b31ee'], ['Mavi nebula', '4ceeb81725946c822da32225b36f8707'], ['Ay yüzeyi', 'a1c504f99589f63119d510c6f2c60919'], ['Yıldız yağmuru', 'd83c22969ff22eeda6a4ca43aa9e9792'], ['Mavi galaksi', 'e0c62326edb330a8e656d1783d3a17cb'], ['Yıldız kuşağı', '913d542458ee66ea5831071ef906a926'], ['Dolunay', 'dac06d8e40f97dcc07c044913dd850a1'], ['Satürn', 'f62fdb9c7a12f760a4bcb9d306fbafbe'], ['Uzay balinası', 'b94b60d6baf860e25b45a407b46a674a'], ['Samanyolu', 'c814e4a17e35eae6284f97d3645659a6'], ['Bulut sarmalı', '940ee9133dda38926366d750a651ee3a'], ['Uzak galaksi', '97e1e85efbecaad855efdf10a1f78716']];
     var disk = DISK.map(function (d, i) { var on = i === S.disk; return { n: d[0], src: B + d[1], on: on ? 'true' : 'false', cls: on ? 'on' : '', bcls: on ? 'on' : '', pick: function () { self.setState({ disk: i, dOto: false }); } }; });
     var DS = {}; DISK.forEach(function (d) { DS[d[0]] = B + d[1]; });
     var KIM = [['Çocuk odası', 'cocuk', 'Masaldan sonra galaksi.', 'Uyumadan önce tavana birlikte bakın.', 'Uzay balinası', '32% 40%'], ['Kendine zaman', 'saturn', 'Ekran yok, sadece gökyüzü.', 'Gün sonunda telefonu bırak, tavana bak.', 'Satürn', '52% 40%'], ['Dolunay gecesi', 'ay', 'Ay odanda doğsun.', 'Işığı kapat, dolunay tavanda.', 'Dolunay', '50% 40%']];

diff --git a/ayluna-imza/araclar/tuval-uret/luna_usb.py b/ayluna-imza/araclar/tuval-uret/luna_usb.py
@@ -20,14 +20,15 @@ B = '/_blob/'
 I = dict(Y.I, bas='7e1339aefa8d185cd41f6c37b16853c5', kesim='5782766948fef68b7273c061529d6324', afis='be86b4a93cb896b0ad69042a2e915e68')
 # Kutudaki 12 film diski (kullanıcı, 19 Eki: "USB'nin diskleri böyle", iki ürün görseli): 6 renkli + 6 siyah-beyaz; Ay, Satürn gibi
 # doğası beyaz olanlar tavanda da beyaz. Kullanıcının görsellerinden kırpıldı (canvas/usb/k-*.webp, yerelde büyütme, üretim yok);
-# renkli altısının kaynağı ~50 px, büyütünce kareli olmasın diye tavandaki yansıma gibi yumuşatıldı (asıl görsel gelirse değişir).
+# Kaynaklar küçük (renkli diskler ~50 px): iki görsel yerelde Real-ESRGAN x4plus ile 4x büyütüldü, sonra kırpıldı
+# (kullanıcı, 19 Eki: "kalitesini arttırmamışsın"; yumuşatmak yetmedi). Ücretsiz, bu makinede; Higgsfield yok.
 # Eski 12 disk (afişten, d01–d12) kutuyla örtüşmediği için kalktı. Adlar desenin tarifidir.
-DISK = [('Kızıl sarmal', '298ae74db19f9db800b9e9036f8da560'), ('Mavi nebula', 'b9827fcce5c63d62332bae79435b337a'),
-        ('Ay yüzeyi', '877983233d8c1e6644d73c1923e72595'), ('Yıldız yağmuru', 'af1815158d14c5b764fad7776e10284c'),
-        ('Mavi galaksi', '9665b9b2418d5356d09a0e49b65225a7'), ('Yıldız kuşağı', '093b2415a406f8c3029e9fc3ab073eaf'),
-        ('Dolunay', 'e3900cbd48390901b17932d8912b6b44'), ('Satürn', '62e0ed0370f3e64bee9916a776621abf'),
-        ('Uzay balinası', 'ac1f2ab95a1b0b8a819f04095305f179'), ('Samanyolu', '14c1fb57790b4d352192307e2266071e'),
-        ('Bulut sarmalı', '3b7f66c3091c4a32ba836ca875d7f4f3'), ('Uzak galaksi', 'f5f8b6e9da726943b0ca3bea161462e8')]
+DISK = [('Kızıl sarmal', 'b9f5d788517b91ee796e4170791b31ee'), ('Mavi nebula', '4ceeb81725946c822da32225b36f8707'),
+        ('Ay yüzeyi', 'a1c504f99589f63119d510c6f2c60919'), ('Yıldız yağmuru', 'd83c22969ff22eeda6a4ca43aa9e9792'),
+        ('Mavi galaksi', 'e0c62326edb330a8e656d1783d3a17cb'), ('Yıldız kuşağı', '913d542458ee66ea5831071ef906a926'),
+        ('Dolunay', 'dac06d8e40f97dcc07c044913dd850a1'), ('Satürn', 'f62fdb9c7a12f760a4bcb9d306fbafbe'),
+        ('Uzay balinası', 'b94b60d6baf860e25b45a407b46a674a'), ('Samanyolu', 'c814e4a17e35eae6284f97d3645659a6'),
+        ('Bulut sarmalı', '940ee9133dda38926366d750a651ee3a'), ('Uzak galaksi', '97e1e85efbecaad855efdf10a1f78716')]
 D = dict((n, B + i) for n, i in DISK)
 KES = B + I['kesim']
 

diff --git a/ayluna-imza/araclar/gorsel/sr.py b/ayluna-imza/araclar/gorsel/sr.py
@@ -1,0 +1,17 @@
+# Real-ESRGAN x4plus (yerel, CPU, ücretsiz) ile 4x büyütme: python sr.py girdi.png çıktı.png [geçiş]
+# Kurulum (bir kez): python3 -m venv /tmp/sr-env && /tmp/sr-env/bin/pip install --index-url https://download.pytorch.org/whl/cpu torch torchvision
+#   && /tmp/sr-env/bin/pip install spandrel pillow numpy
+#   && curl -L -o /tmp/sr-model/RealESRGAN_x4plus.pth https://github.com/xinntao/Real-ESRGAN/releases/download/v0.1.0/RealESRGAN_x4plus.pth
+# Çalıştır: /tmp/sr-env/bin/python araclar/gorsel/sr.py girdi.png çıktı.png
+import sys, torch, numpy as np
+from PIL import Image
+from spandrel import ModelLoader
+m = ModelLoader().load_from_file('/tmp/sr-model/RealESRGAN_x4plus.pth').model.eval()
+torch.set_num_threads(4)
+def sr(im):
+    a = torch.from_numpy(np.asarray(im.convert('RGB')).astype(np.float32) / 255).permute(2, 0, 1)[None]
+    with torch.no_grad(): o = m(a)
+    return Image.fromarray((o[0].permute(1, 2, 0).clamp(0, 1).numpy() * 255).round().astype(np.uint8))
+im = Image.open(sys.argv[1]); n = int(sys.argv[3]) if len(sys.argv) > 3 else 1
+for _ in range(n): im = sr(im)
+im.save(sys.argv[2])

diff --git a/ayluna-imza/TASARIM-BILGISI.md b/ayluna-imza/TASARIM-BILGISI.md
@@ -334,6 +334,7 @@ Kullanıcı bir şeyi düzeltince bir satır eklenir. Kalıcı kural `beceriler/
 | 18 Eki | (Stok kurdelesi, Dün 62 ve lacivert dönen satır USB'ye de gelsin mi?) "Evet ona da gelsin" | Galaxy USB'de de: lacivert dönen satır (diskler lacivert halkalı), fiyatın altında "Dün 62 kişi satın aldı", buton kurdelesi "Son [N] adet". USB'nin ana butonu lacivert olduğu için kurdele **ay gümüşü zemin + lacivert yazı** (paket kurdelesinin tersi); iki satırlı butonda üst iç boşluk 16px ki yazı kurdelenin altında kalmasın. Satın alma alanının baskı unsurları ürünler arasında ortak kalıp; renk her sayfanın kendi paletinden. |
 | 19 Eki | "Görsel kısımlarında hatalar görüyorum; seçim kısmında kız erkekte arkasında siyahlık var, USB'de de var; doğru görselleri yapmamız gerekiyor." | **Neden:** site üretimi arka planı temizlenmiş (saydam) ürün kesimlerini JPEG'e çeviriyordu; saydam kısım siyah oluyordu (tuvalde PNG olduğu için görünmüyordu). **Kural:** saydam görsel her çıktıda saydam kalır (sitede WebP, Shopify'da PNG/WebP); JPEG yalnız saydamlığı olmayan fotoğrafa. Teslimden önce gerçek site çıktısında seçim kartlarına bakılır; test.js model kartı görsellerinin saydam olduğunu dener. |
 | 19 Eki | (İki ürün görseliyle) "USB'nin diskleri böyle, buna göre revize et." Sonra: 12 disk, hepsi bunlar; "hem renkli hem renksiz attığım gibi, onlar zaten Ay vesaire olduğu için o renkte". | **Galaxy USB kutusu = 12 disk: 6 renkli** (Kızıl sarmal, Mavi nebula, Ay yüzeyi, Yıldız yağmuru, Mavi galaksi, Yıldız kuşağı) **+ 6 beyaz** (Dolunay, Satürn, Uzay balinası, Samanyolu, Bulut sarmalı, Uzak galaksi). Eski afiş diskleri kalktı. **Sayfada yalnız kutudaki desen görünür:** tavanında denizanası (Genç odası) ve kuzey ışığı (İkimiz için) olan fotoğraflar kaldırıldı; sahneler Dolunay, Satürn, Galaksi. Yerlerine Flow istemi hazır (`ogrenme/flow-istemleri-usb-oda.md`). |
+| 19 Eki | (Yumuşatılmış USB disklerine) "Kalitesini arttırmamışsın ama bitanem" | **Küçük kaynak görsel yumuşatılarak bırakılmaz, gerçekten büyütülür:** yerelde Real-ESRGAN x4plus (ücretsiz, bu makinede; `araclar/gorsel/sr.py`). Higgsfield ve kredi yok. Önce kaynağın büyük aslı aranır (canlı mağaza JSON'u), yoksa SR. Teslimden önce büyük önizlemede (236 px tavan yansıması) bakılır. |
 
 ## 11. Kararlar
 **Varsayılan olarak uygulanır** (kullanıcı itiraz ederse değişir):

diff --git a/ayluna-imza/DEVAM.md b/ayluna-imza/DEVAM.md
@@ -489,6 +489,7 @@ Güncel beceri dosyaları `beceriler/` klasöründe; claude.ai'deki sürümleri 
 - Kullanıcı: "Stok kısmı için de uygun bir tasarım deneyebilir miyiz, UI." → `stok_secenek.py` → `canvas/LunaDreamE-Stok.dc.html` (tuvalde Güncel sayfası, LunaDream E sütunu): A Yıldız dizisi, B Serif sayı, C Buton kurdelesi. Eleştirmen: C 8/10, B 5/10, A 4/10. Kullanıcı C'yi seçti → `luna_e.py`: butonun üst kenarında "Son 18 adet" kurdelesi (`STOK`), azalan ay, dokunmayı engellemez, buton ekrana girince bir kez; eski stok satırı (`.canli`) kalktı. USB'ye de geldi (kullanıcı: "evet ona da gelsin"): lacivert dönen satır, Dün 62, "Son [N] adet" kurdelesi (ay gümüşü, lacivert butonda); USB stok sayısı 23 (kullanıcı).
 - Kullanıcı (19 Eki): seçim kartlarında Kız/Erkek ve USB görsellerinin arkasında siyahlık → `site_uret.py` saydam kesimleri JPEG'e çeviriyordu; artık `gorsel()` saydam olanı WebP (saydam), diğerini JPEG yazar (15 görsel). Tüm site görselleri tarandı; kalan siyah zeminliler (diskler, gece fotoğrafı, Sunset afişleri) zaten öyle. Zip: scratchpad `ayluna-site.zip` (site + tek-dosya/index.html).
 - Kullanıcı (19 Eki): "USB'nin diskleri böyle" (iki görsel) → 12 disk = 6 renkli + 6 beyaz; `luna_usb.py` DISK yeni, görseller `canvas/usb/k-*.webp` (kullanıcının görsellerinden kırpıldı; renkli altısı ~50 px kaynaktan, yumuşatıldı; asıl görsel istenecek). Oda kartları 3'e indi (Çocuk/Uzay balinası, Kendime/Satürn, Dolunay); Genç ve İkimiz kartları için Flow istemi `ogrenme/flow-istemleri-usb-oda.md`. Not: Satürn oda fotoğrafında gezegen renkli, disk beyaz; kullanıcıya soruldu.
+- Kullanıcı: "kalitesini arttırmamışsın" → canlı mağazada disklerin büyük aslı yok (ürün JSON'unda yalnız 5 afiş); iki kaynak görsel yerelde Real-ESRGAN x4plus ile 4x büyütülüp diskler yeniden kırpıldı (`araclar/gorsel/sr.py`).
 - Kullanıcı: dönen satır "lacivert rengimize çevirsek daha bütün görünür" → `.donen` lacivert zemin, ay beyazı yazı, sayaç çipi yarı saydam beyaz.
 - Tuval ve "Ayluna Mağazası" artifact'ı (DgGy66eo4iqLEhjSn1inje) güncellendi. Yanlışlıkla oluşan görselsiz ikinci site artifact'ı kullanıcının isteğiyle silindi. Site yayını her zaman `url` ile asıl adrese yapılır (url'siz yayın yeni adres açar).
 

diff --git a/ayluna-imza/beceriler/ayluna-tasarim/SKILL.md b/ayluna-imza/beceriler/ayluna-tasarim/SKILL.md
@@ -101,6 +101,7 @@ Ayluna, Türkiye'de Meta reklamıyla telefondan gelen annelere ve büyükanneler
   - **Marka işareti:** ince daire içinde amber hilal (evre çizimi). Başta ve alt bilgide aynı kilitle kullanılır. Sayacın yanında gün bittikçe söner.
   - **Seçili durum (Tur 25):** model, paket ve 2. lamba aynı dille seçilir: 2px lacivert çerçeve ve amber dolunay noktası. Dolu lacivert seçili kart yok (kullanıcı: "bundle ve aralarında uyum yok"). Renk değişimi anlık; yalnız nokta hareket eder.
   - **Küçük ürün görselleri:** her yerde arka planı temizlenmiş stüdyo kesimi kullanılır, bej kare kullanılmaz.
+  - **Küçük görsel gerçekten büyütülür:** önce büyük aslı aranır (canlı mağaza `/products/<handle>.json`); yoksa yerelde Real-ESRGAN x4plus (`araclar/gorsel/sr.py`, ücretsiz). Yumuşatıp bırakmak yetmez; Higgsfield yok.
   - **Kesimler saydam kalır:** arka planı temizlenmiş görsel hiçbir çıktıda JPEG'e çevrilmez (saydamlık siyah olur); sitede WebP, Shopify'da PNG/WebP. Teslimden önce gerçek çıktıda seçim kartlarına bakılır.
   - **Fiyat düşüşü** (kullanıcı isteği): açılışta bir kez ₺1.999,00 → çizilir → indirimli fiyat yukarıdan düşer → rozet. Sayan rakam kuralının tek istisnasıdır.
   - **Seçiciler = satır kartlar** (Tur 25, kullanıcı seçimi): model yan yana iki yarım kart; paket alt alta satır kart (görsel, ad, "%15 indirim" / "₺649,99 kazanç", fiyat, eski fiyat / "tanesi", dolunay noktası, lacivert "En avantajlı" kurdelesi); 2 Adet açılınca kartın içinde "2. lamba" çipleri; altta tek hediye şeridi "Her kutuda +6 hediye masal diski". Kemerli gece penceresi ve hap segment kullanılmaz.
